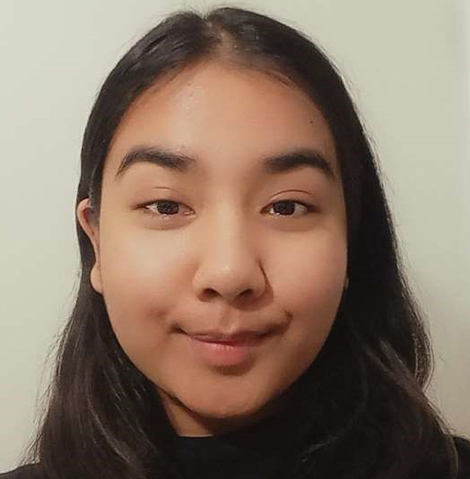
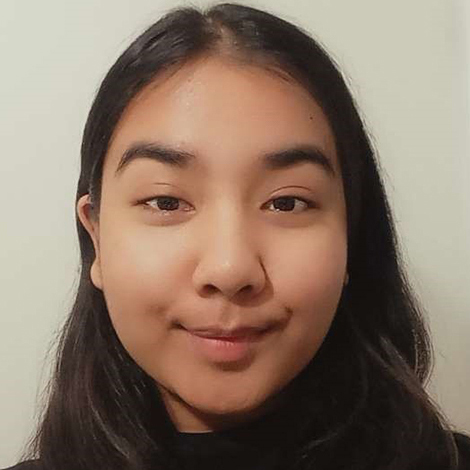
optimize about images

diff --git a/about.html b/about.html
@@ -47,15 +47,12 @@
         <div class="bannertext">
             <p class="animation">Welcome to The Noon</p>
             <h1 class="whiteh1 animation">Crafting Memories with Delectable Delights</h1>
-            <p class="animation">Order your delicious cake with our app</p>
+            <p class="animation">Order your delicious cake now</p>
             <!-- add Buttons -->
             <!-- <a href="play-btn">Playstore</a>this is wrong! -->
-            <a href="" class="play-btn animation">Playstore</a>
+            <a href="contact.html" class="play-btn animation">Contact</a>
 
-            <a href="" class="app-btn animation">App store</a>
-
-
-
+            <!-- <a href="" class="app-btn animation">App store</a> -->
         </div>
     </section>
 
@@ -75,27 +72,49 @@
             <div class="about-row">
                 <!-- add 3 column -->
                 <div class="noon-col">
-                    <img src="images/arm-about.png" alt="the noon logo">
+                <!-------------- optimize pictures / same picture /different resolution--------->
+                <!-- I choose 480-1440px since pics are small -->
+
+                    <img 
+                        srcset="images/arm-about-derivatives/arm-about-480_x_480.png, images/arm-about-derivatives/arm-about-960_x_960.png 2x, images/arm-about-derivatives/arm-about-1440_x_1440.png 3x" 
+                            
+                        src="images/arm-about-derivatives/arm-about-960_x_960.png"
+                        alt="the Noon logo">
+                
+                    <!-- src="images/arm-about.png" alt="the noon logo"> -->
+                    
 
                     <h3>The Noon</h3>
                     <p>"The Noon" is renowned for its delectable cakes, perfect for any occasion. Led by Anita and MZ, the team takes pride in crafting unforgettable confections that leave a lasting impression on every customer.</p>
                 </div>
 
                 <div class="noon-col">
-                    <img src="images/Anita-Final.jpg" alt="picture of Anita our manager">
+                    
+                    <!-- <img src="images/Anita-Final-derivatives/Anita-Final-2400_x_2400.jpg" alt="picture of Anita our manager"> -->
+                    <img 
+                        srcset="images/Anita-Final-derivatives/Anita-Final-480_x_480.jpg, images/Anita-Final-derivatives/Anita-Final-960_x_960.jpg 2x, images/Anita-Final-derivatives/Anita-Final-1440_x_1440.jpg 3x" 
+                        
+                        src="images/Anita-Final-derivatives/Anita-Final-960_x_960.jpg"
+                        alt="picture of Anita our manager">
+                   
                     <h3><strong>Anita</strong>, the Manager</h3>
                     <p>Anita manages "The Noon" pastry shop with finesse, ensuring smooth operations and exceptional customer service. Her warmth and attention to detail make "The Noon" a favorite among pastry lovers.</p>
                 </div>
 
                 <div class="noon-col">
-                    <img src="images/MZ.jpg" alt="picture of MZ our pastry chef">
+                    <img 
+                    srcset="images/MZ-derivatives/MZ-480_x_480.jpg, images/MZ-derivatives/MZ-960_x_960.jpg 2x, images/MZ-derivatives/MZ-1440_x_1440.jpg 3x" 
+                        
+                    src="images/MZ-derivatives/MZ-960_x_960.jpg" 
+                    alt="picture of MZ our pastry chef">
+
                     <h3>MZ, the Pastry Chef</h3>
                     <p>MZ, the skilled pastry chef at "The Noon," infuses creativity into every dessert she creates. With her innovative approach and dedication to quality, MZ's treats are both visually stunning and delicious.</p>
                 </div>
 
             </div>
 
-
+           
 
         </section>
 
@@ -124,7 +143,9 @@
         <section class="footer">
             <!-- logo and h4 together -->
             <div class="logo-and-title">
-                <a href="index.html"><img src="images/arm.png" alt="The Noon Logo"></a>
+                <a href="index.html">
+                    <img src="images/arm.png" alt="The Noon Logo"></a>
+                    
                 <h4>The noon</h4>
             </div>
             

diff --git a/css/main.css b/css/main.css
@@ -16,10 +16,25 @@
 .header {
   min-height: 100vh;
   width: 100%;
-  background-image: linear-gradient(rgba(1, 3, 14, 0.7), rgba(17, 23, 52, 0.7)), url(../images/01.jpg);
+  background-image: linear-gradient(rgba(1, 3, 14, 0.7), rgba(17, 23, 52, 0.7)), url(../images/01-derivatives/01-2160_x_1440.jpg);
   background-position: center;
   background-size: cover;
   position: relative;
+}
+
+
+/* optimize image for medium-sized screens */
+@media screen and (max-width: 1200px) {
+  .header {
+    background-image: linear-gradient(rgba(1, 3, 14, 0.7), rgba(17, 23, 52, 0.7)), url(../images/01-derivatives/01-1440_x_960.jpg);
+  }
+}
+
+/* optimize image for  smaller screens */
+@media screen and (max-width: 800px) {
+  .header {
+    background-image: linear-gradient(rgba(1, 3, 14, 0.7), rgba(17, 23, 52, 0.7)), url(../images/01-derivatives/01-720_x_480.jpg);
+  }
 }
 
 /* Design navigation bar */
@@ -156,7 +171,7 @@ nav .fa{
 /* set for media for less 700px*/
   /*1- font title -2- set nav list*/
 
-  @media screen and (max-width: 700px){
+  @media screen and (max-width: 800px){
   /* fix logo size */
   /* add footer image too */
   nav img, .footer img{
@@ -339,7 +354,7 @@ color: black;
 
 
 /* set for media for less 700px*/
-@media screen and (max-width: 700px){
+@media screen and (max-width: 800px){
   .footer{
     /* display: block; */
     flex-direction: column;
@@ -383,7 +398,7 @@ color: black;
 }
 
 /* small screens-middle image */
-@media screen and (max-width: 700px) {
+@media screen and (max-width: 800px) {
   .one-center {
     position: static; /* Reset position to default */
     margin-top: 50px; /* Add margin before the image */
@@ -408,7 +423,7 @@ color: black;
 }
 
 /* small screens, full width */
-@media screen and (max-width: 700px) {
+@media screen and (max-width: 800px) {
   .line {
     width: 100%; /* Full width of the screen */
   }
@@ -529,10 +544,10 @@ padding-top: 30px;
 }
 
 
-/* set advertisment for media for less 700px-@media*/
+/* set advertisment for media for less 800px-@media*/
 /* @media(max-width: 700px) */
 
-@media screen and (max-width: 700px){
+@media screen and (max-width: 800px){
     .row{
       grid-template-columns: 1fr;
       /* grid-gap: 50px; */
@@ -576,7 +591,23 @@ padding-top: 30px;
   padding: 100px 0;
   
 
-  background-image: linear-gradient(rgba(1, 3, 14, 0.7), rgba(17, 23, 52, 0.7)), url(../images/banner-small.jpg);
+  background-image: linear-gradient(rgba(1, 3, 14, 0.7), rgba(17, 23, 52, 0.7)), url(../images/banner-small-derivatives/banner-small-2160_x_1451.jpg);
+}
+
+
+
+/* optimize pic for medium-sized screens */
+@media screen and (max-width: 1200px) {
+  .call {
+    background-image: linear-gradient(rgba(1, 3, 14, 0.7), rgba(17, 23, 52, 0.7)), url(../images/banner-small-derivatives/banner-small-1440_x_967.jpg);
+  }
+}
+
+/* optimize pic for smaller screens */
+@media screen and (max-width: 800px) {
+  .call {
+    background-image: linear-gradient(rgba(1, 3, 14, 0.7), rgba(17, 23, 52, 0.7)), url(../images/banner-small-derivatives/banner-small-720_x_483.jpg);
+  }
 }
 
 
@@ -695,7 +726,7 @@ textarea {
 }
 
 /* Media query for smaller screens */
-@media screen and (max-width: 700px) {
+@media screen and (max-width: 800px) {
   .contact-box {
     grid-template-columns: 1fr;
   }
@@ -718,7 +749,7 @@ textarea {
 
 
 
-/* ------------------add animations to banner image---------------------- */
+/* ------------------add animations for banner image---------------------- */
 .animation{
   /* make invisible */
   opacity: 0;
@@ -844,7 +875,7 @@ textarea {
 
 
 /* style about page for small screen */
-@media screen and (max-width: 700px){
+@media screen and (max-width: 800px){
   .about-row{
     flex-direction: column;
   }

diff --git a/index.html b/index.html
@@ -66,7 +66,14 @@
 <!-- --------------- middle image------------- -->
 
     <div class="one-center">     
-        <img src="images/nature_inspired.jpg" class="center-image" alt="A three-story wedding cake filled with walnuts and vanilla">   
+        <!-- <img src="images/nature_inspired-derivatives/nature_inspired-2880_x_4115.jpg" class="center-image" alt="A three-story wedding cake filled with walnuts and vanilla">    -->
+
+        <!-- optimize image -->
+        <img class="center-image"
+        srcset="images/nature_inspired-derivatives/nature_inspired-960_x_1371.jpg, images/nature_inspired-derivatives/nature_inspired-1920_x_2743.jpg 2x, images/nature_inspired-derivatives/nature_inspired-2880_x_4115.jpg 3x" 
+            
+        src="images/nature_inspired-derivatives/nature_inspired-1920_x_2743.jpg"
+        alt="A three-story wedding cake filled with walnuts and vanilla">
     </div>
 
     
